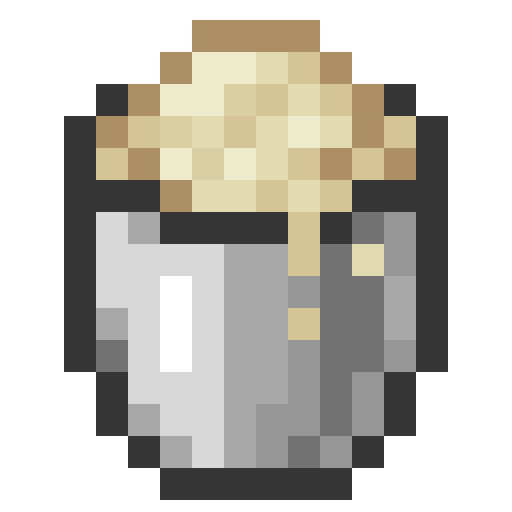
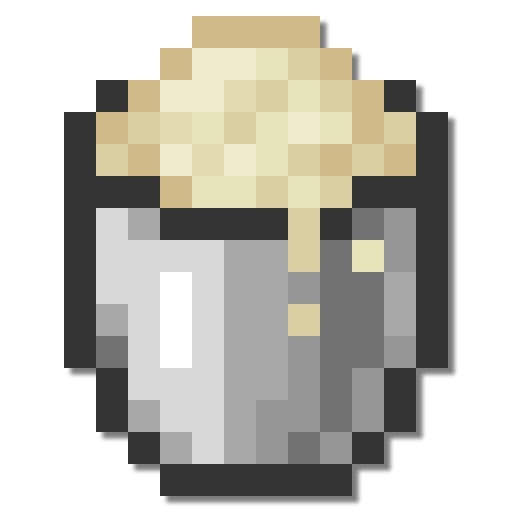
1.1.0
Updated to 1.18.2
Added Red Quicksand, Red Quicksand Bucket, and Red Quicksand Cauldron
Red Quicksand spawns in any Badlands biome (tagged with `minecraft:is_badlands`)
Reworked a lot of small things relating to when Quicksand deals damage and spawns particles
Redid texture of Quicksand, and slightly altered the texture of Quicksand Bucket to match
A lot of other small things

diff --git a/src/main/java/com/shnupbups/quicksand/block/QuicksandBlock.java b/src/main/java/com/shnupbups/quicksand/block/QuicksandBlock.java
@@ -2,6 +2,7 @@ package com.shnupbups.quicksand.block;
 
 import java.util.Optional;
 import java.util.Random;
+import java.util.function.Supplier;
 
 import net.minecraft.block.AbstractBlock;
 import net.minecraft.block.Block;
@@ -16,6 +17,7 @@ import net.minecraft.entity.EquipmentSlot;
 import net.minecraft.entity.FallingBlockEntity;
 import net.minecraft.entity.LivingEntity;
 import net.minecraft.entity.ai.pathing.NavigationType;
+import net.minecraft.item.Item;
 import net.minecraft.item.ItemStack;
 import net.minecraft.item.Items;
 import net.minecraft.particle.BlockStateParticleEffect;
@@ -30,16 +32,21 @@ import net.minecraft.util.shape.VoxelShapes;
 import net.minecraft.world.BlockView;
 import net.minecraft.world.World;
 import net.minecraft.world.WorldAccess;
+import net.minecraft.world.WorldEvents;
 
 import net.fabricmc.api.EnvType;
 import net.fabricmc.api.Environment;
 
 import com.shnupbups.quicksand.Quicksand;
 import com.shnupbups.quicksand.registry.ModBlocks;
+import com.shnupbups.quicksand.registry.ModTags;
 
 public class QuicksandBlock extends SandBlock implements FluidDrainable {
-	public QuicksandBlock(AbstractBlock.Settings settings) {
-		super(14076051, settings);
+	public final Supplier<Item> bucket;
+
+	public QuicksandBlock(AbstractBlock.Settings settings, int color, Supplier<Item> bucket) {
+		super(color, settings);
+		this.bucket = bucket;
 	}
 
 	@Override
@@ -55,19 +62,22 @@ public class QuicksandBlock extends SandBlock implements FluidDrainable {
 
 	@Override
 	public void onEntityCollision(BlockState state, World world, BlockPos pos, Entity entity) {
-		if (entity.getBlockStateAtPos().isOf(ModBlocks.QUICKSAND)) {
+		if (entity.getBlockStateAtPos().isIn(ModTags.QUICKSAND)) {
 			entity.slowMovement(state, new Vec3d(0.6D, 0.4D, 0.6D));
 		}
 
-		if (world.getRandom().nextBoolean()) {
-			if (entity instanceof LivingEntity living && world.getBlockState(new BlockPos(entity.getBlockX(), entity.getEyeY() - 0.1111111119389534D, entity.getBlockZ())).isOf(ModBlocks.QUICKSAND)) {
+		if (!entity.isSpectator() && (hasEntityMoved(entity) || world.getRandom().nextFloat() < 0.2)) {
+			if (entity instanceof LivingEntity living && world.getBlockState(new BlockPos(entity.getBlockX(), entity.getEyeY() - 0.1111111119389534D, entity.getBlockZ())).isIn(ModTags.QUICKSAND)) {
 				living.damage(Quicksand.QUICKSAND_DAMAGE, 1f);
 			}
 
-			if (!entity.isSpectator() && (entity.lastRenderX != entity.getX() || entity.lastRenderZ != entity.getZ())) {
-				spawnParticles(world, state, new Vec3d(entity.getX(), pos.getY(), entity.getZ()));
-			}
+			if(world.getRandom().nextBoolean()) spawnParticles(world, state, new Vec3d(entity.getX(), pos.getY(), entity.getZ()));
 		}
+	}
+
+	public boolean hasEntityMoved(Entity entity) {
+		return entity.lastRenderX != entity.getX() || entity.lastRenderY != entity.getY() || entity.lastRenderZ != entity.getZ() ||
+				entity.prevYaw != entity.getYaw() || entity.prevPitch != entity.getPitch();
 	}
 
 	@Override
@@ -76,7 +86,7 @@ public class QuicksandBlock extends SandBlock implements FluidDrainable {
 			Entity entity = entityShapeContext.getEntity();
 			if (entity != null) {
 				if (entity instanceof FallingBlockEntity || (canWalkOnQuicksand(entity) && context.isAbove(VoxelShapes.fullCube(), pos, false) && !context.isDescending())) {
-					return super.getCollisionShape(state, world, pos, context);
+					return VoxelShapes.fullCube();
 				}
 			}
 		}
@@ -92,30 +102,33 @@ public class QuicksandBlock extends SandBlock implements FluidDrainable {
 	public static void spawnParticles(World world, BlockState state, Vec3d pos) {
 		if (world.isClient) {
 			Random random = world.getRandom();
-			double d = pos.y + 1.0D;
 
 			for (int i = 0; i < random.nextInt(3); ++i) {
-				world.addParticle(new BlockStateParticleEffect(ParticleTypes.FALLING_DUST, state), pos.x, d, pos.z, (-1.0F + random.nextFloat() * 2.0F) / 12.0F, 0.05000000074505806D, (-1.0F + random.nextFloat() * 2.0F) / 12.0F);
+				world.addParticle(new BlockStateParticleEffect(ParticleTypes.FALLING_DUST, state), pos.x+(random.nextFloat(0.2f)-0.1f), pos.y+(random.nextFloat(0.2f)-0.1f), pos.z+(random.nextFloat(0.2f)-0.1f), (-1.0F + random.nextFloat() * 2.0F) / 12.0F, 0.05000000074505806D, (-1.0F + random.nextFloat() * 2.0F) / 12.0F);
 			}
 		}
 	}
 
 	public static boolean canWalkOnQuicksand(Entity entity) {
-		if (entity.getType().isIn(Quicksand.QUICKSAND_WALKABLE_MOBS)) {
+		if (entity.getType().isIn(ModTags.QUICKSAND_WALKABLE_MOBS)) {
 			return true;
 		} else {
 			return entity instanceof LivingEntity livingEntity && livingEntity.getEquippedStack(EquipmentSlot.FEET).isOf(Items.LEATHER_BOOTS);
 		}
 	}
 
+	public Item getBucket() {
+		return bucket.get();
+	}
+
 	@Override
 	public ItemStack tryDrainFluid(WorldAccess world, BlockPos pos, BlockState state) {
-		world.setBlockState(pos, Blocks.AIR.getDefaultState(), 11);
+		world.setBlockState(pos, Blocks.AIR.getDefaultState(), Block.REDRAW_ON_MAIN_THREAD | Block.NOTIFY_ALL);
 		if (!world.isClient()) {
-			world.syncWorldEvent(2001, pos, Block.getRawIdFromState(state));
+			world.syncWorldEvent(WorldEvents.BLOCK_BROKEN, pos, Block.getRawIdFromState(state));
 		}
 
-		return new ItemStack(ModBlocks.QUICKSAND_BUCKET);
+		return getBucket().getDefaultStack();
 	}
 
 	@Override

diff --git a/src/main/java/com/shnupbups/quicksand/registry/ModFeatures.java b/src/main/java/com/shnupbups/quicksand/registry/ModFeatures.java
@@ -1,21 +1,19 @@
 package com.shnupbups.quicksand.registry;
 
-import net.minecraft.block.Blocks;
+import net.minecraft.tag.BiomeTags;
 import net.minecraft.util.Identifier;
-import net.minecraft.util.registry.BuiltinRegistries;
-import net.minecraft.util.registry.Registry;
-import net.minecraft.util.registry.RegistryKey;
+import net.minecraft.util.registry.RegistryEntry;
 import net.minecraft.world.biome.BiomeKeys;
 import net.minecraft.world.gen.GenerationStep;
-import net.minecraft.world.gen.decorator.BiomePlacementModifier;
-import net.minecraft.world.gen.decorator.RarityFilterPlacementModifier;
-import net.minecraft.world.gen.decorator.SquarePlacementModifier;
 import net.minecraft.world.gen.feature.ConfiguredFeature;
 import net.minecraft.world.gen.feature.ConfiguredFeatures;
 import net.minecraft.world.gen.feature.Feature;
 import net.minecraft.world.gen.feature.LakeFeature;
 import net.minecraft.world.gen.feature.PlacedFeature;
 import net.minecraft.world.gen.feature.PlacedFeatures;
+import net.minecraft.world.gen.placementmodifier.BiomePlacementModifier;
+import net.minecraft.world.gen.placementmodifier.RarityFilterPlacementModifier;
+import net.minecraft.world.gen.placementmodifier.SquarePlacementModifier;
 import net.minecraft.world.gen.stateprovider.BlockStateProvider;
 
 import net.fabricmc.fabric.api.biome.v1.BiomeModifications;
@@ -25,16 +23,23 @@ import com.shnupbups.quicksand.Quicksand;
 
 public class ModFeatures extends ConfiguredFeatures {
 	public static final Identifier QUICKSAND_LAKE_ID = Quicksand.id("quicksand_lake");
-	public static final ConfiguredFeature<?, ?> QUICKSAND_LAKE_CONFIGURED_FEATURE = Feature.LAKE.configure(new LakeFeature.Config(BlockStateProvider.of(ModBlocks.QUICKSAND), BlockStateProvider.of(Blocks.SAND)));
-	public static final PlacedFeature QUICKSAND_LAKE_PLACED_FEATURE = QUICKSAND_LAKE_CONFIGURED_FEATURE.withPlacement(RarityFilterPlacementModifier.of(30), SquarePlacementModifier.of(), PlacedFeatures.WORLD_SURFACE_WG_HEIGHTMAP, BiomePlacementModifier.of());
+	public static final Identifier RED_QUICKSAND_LAKE_ID = Quicksand.id("red_quicksand_lake");
+
+	public static final RegistryEntry<ConfiguredFeature<LakeFeature.Config, ?>> QUICKSAND_LAKE_CONFIGURED_FEATURE = ConfiguredFeatures.register(QUICKSAND_LAKE_ID.toString(), Feature.LAKE, new LakeFeature.Config(BlockStateProvider.of(ModBlocks.QUICKSAND.getDefaultState()), BlockStateProvider.of(ModBlocks.QUICKSAND.getDefaultState())));
+	public static final RegistryEntry<PlacedFeature> QUICKSAND_LAKE_PLACED_FEATURE = PlacedFeatures.register(QUICKSAND_LAKE_ID.toString(), QUICKSAND_LAKE_CONFIGURED_FEATURE, RarityFilterPlacementModifier.of(30), SquarePlacementModifier.of(), PlacedFeatures.WORLD_SURFACE_WG_HEIGHTMAP, BiomePlacementModifier.of());
+
+	public static final RegistryEntry<ConfiguredFeature<LakeFeature.Config, ?>> RED_QUICKSAND_LAKE_CONFIGURED_FEATURE = ConfiguredFeatures.register(RED_QUICKSAND_LAKE_ID.toString(), Feature.LAKE, new LakeFeature.Config(BlockStateProvider.of(ModBlocks.RED_QUICKSAND.getDefaultState()), BlockStateProvider.of(ModBlocks.RED_QUICKSAND.getDefaultState())));
+	public static final RegistryEntry<PlacedFeature> RED_QUICKSAND_LAKE_PLACED_FEATURE = PlacedFeatures.register(RED_QUICKSAND_LAKE_ID.toString(), RED_QUICKSAND_LAKE_CONFIGURED_FEATURE, RarityFilterPlacementModifier.of(50), SquarePlacementModifier.of(), PlacedFeatures.WORLD_SURFACE_WG_HEIGHTMAP, BiomePlacementModifier.of());
 
 	public static void init() {
-		BuiltinRegistries.add(BuiltinRegistries.CONFIGURED_FEATURE, QUICKSAND_LAKE_ID, QUICKSAND_LAKE_CONFIGURED_FEATURE);
-		BuiltinRegistries.add(BuiltinRegistries.PLACED_FEATURE, QUICKSAND_LAKE_ID, QUICKSAND_LAKE_PLACED_FEATURE);
-
 		BiomeModifications.create(QUICKSAND_LAKE_ID).add(ModificationPhase.ADDITIONS, (biomeSelectionContext) ->
 				biomeSelectionContext.getBiomeKey().equals(BiomeKeys.DESERT), (biomeSelectionContext, biomeModificationContext) ->
-				biomeModificationContext.getGenerationSettings().addBuiltInFeature(GenerationStep.Feature.LAKES, QUICKSAND_LAKE_PLACED_FEATURE)
+				biomeModificationContext.getGenerationSettings().addBuiltInFeature(GenerationStep.Feature.LAKES, QUICKSAND_LAKE_PLACED_FEATURE.value())
+		);
+
+		BiomeModifications.create(RED_QUICKSAND_LAKE_ID).add(ModificationPhase.ADDITIONS, (biomeSelectionContext) ->
+				biomeSelectionContext.getBiomeRegistryEntry().isIn(BiomeTags.IS_BADLANDS), (biomeSelectionContext, biomeModificationContext) ->
+				biomeModificationContext.getGenerationSettings().addBuiltInFeature(GenerationStep.Feature.LAKES, RED_QUICKSAND_LAKE_PLACED_FEATURE.value())
 		);
 	}
 }

diff --git a/src/main/java/com/shnupbups/quicksand/registry/ModBlocks.java b/src/main/java/com/shnupbups/quicksand/registry/ModBlocks.java
@@ -17,14 +17,34 @@ import com.shnupbups.quicksand.Quicksand;
 import com.shnupbups.quicksand.block.QuicksandBlock;
 
 public class ModBlocks {
-	public static final Block QUICKSAND = new QuicksandBlock(FabricBlockSettings.copyOf(Blocks.SAND));
-	public static final BlockItem QUICKSAND_BUCKET = new PowderSnowBucketItem(QUICKSAND, SoundEvents.BLOCK_SAND_PLACE, new FabricItemSettings().maxCount(1).group(ItemGroup.MISC));
-	public static final Block QUICKSAND_CAULDRON = new FullCauldronBlock(FabricBlockSettings.copyOf(Blocks.CAULDRON), ModCauldronBehavior.QUICKSAND_CAULDRON_BEHAVIOR);
+	public static Block QUICKSAND;
+	public static BlockItem QUICKSAND_BUCKET;
+	public static Block QUICKSAND_CAULDRON;
+	public static Block RED_QUICKSAND;
+	public static BlockItem RED_QUICKSAND_BUCKET;
+	public static Block RED_QUICKSAND_CAULDRON;
 
 	public static void init() {
+		QUICKSAND = new QuicksandBlock(FabricBlockSettings.copyOf(Blocks.SAND), 14406560, () -> QUICKSAND_BUCKET);
+		QUICKSAND_BUCKET = new PowderSnowBucketItem(QUICKSAND, SoundEvents.BLOCK_SAND_PLACE, new FabricItemSettings().maxCount(1).group(ItemGroup.MISC));
+		QUICKSAND_CAULDRON =  new FullCauldronBlock(FabricBlockSettings.copyOf(Blocks.CAULDRON), ModCauldronBehavior.QUICKSAND_CAULDRON_BEHAVIOR);
+
+		RED_QUICKSAND = new QuicksandBlock(FabricBlockSettings.copyOf(Blocks.RED_SAND), 11098145, () -> RED_QUICKSAND_BUCKET);
+		RED_QUICKSAND_BUCKET = new PowderSnowBucketItem(RED_QUICKSAND, SoundEvents.BLOCK_SAND_PLACE, new FabricItemSettings().maxCount(1).group(ItemGroup.MISC));
+		RED_QUICKSAND_CAULDRON =  new FullCauldronBlock(FabricBlockSettings.copyOf(Blocks.CAULDRON), ModCauldronBehavior.RED_QUICKSAND_CAULDRON_BEHAVIOR);
+
+		register();
+	}
+
+	private static void register() {
 		Registry.register(Registry.BLOCK, Quicksand.id("quicksand"), QUICKSAND);
 		Registry.register(Registry.ITEM, Quicksand.id("quicksand_bucket"), QUICKSAND_BUCKET);
 		QUICKSAND_BUCKET.appendBlocks(Item.BLOCK_ITEMS, QUICKSAND_BUCKET);
 		Registry.register(Registry.BLOCK, Quicksand.id("quicksand_cauldron"), QUICKSAND_CAULDRON);
+
+		Registry.register(Registry.BLOCK, Quicksand.id("red_quicksand"), RED_QUICKSAND);
+		Registry.register(Registry.ITEM, Quicksand.id("red_quicksand_bucket"), RED_QUICKSAND_BUCKET);
+		RED_QUICKSAND_BUCKET.appendBlocks(Item.BLOCK_ITEMS, RED_QUICKSAND_BUCKET);
+		Registry.register(Registry.BLOCK, Quicksand.id("red_quicksand_cauldron"), RED_QUICKSAND_CAULDRON);
 	}
 }

diff --git a/src/main/java/com/shnupbups/quicksand/mixin/LivingEntityMixin.java b/src/main/java/com/shnupbups/quicksand/mixin/LivingEntityMixin.java
@@ -12,8 +12,10 @@ import org.spongepowered.asm.mixin.injection.At;
 import org.spongepowered.asm.mixin.injection.Inject;
 import org.spongepowered.asm.mixin.injection.callback.CallbackInfoReturnable;
 
+import com.shnupbups.quicksand.Quicksand;
 import com.shnupbups.quicksand.block.QuicksandBlock;
 import com.shnupbups.quicksand.registry.ModBlocks;
+import com.shnupbups.quicksand.registry.ModTags;
 
 @Mixin(LivingEntity.class)
 public abstract class LivingEntityMixin extends Entity {
@@ -25,10 +27,10 @@ public abstract class LivingEntityMixin extends Entity {
 	}
 
 	@Inject(method = "applyMovementInput(Lnet/minecraft/util/math/Vec3d;F)Lnet/minecraft/util/math/Vec3d;", at = @At("RETURN"), cancellable = true)
-	public void inject_applyMovementInput(Vec3d vec3d, float f, CallbackInfoReturnable<Vec3d> cir) {
-		Vec3d vec3d2 = this.getVelocity();
-		if ((this.horizontalCollision || this.jumping) && (this.getBlockStateAtPos().isOf(ModBlocks.QUICKSAND))) {
-			cir.setReturnValue(new Vec3d(vec3d2.x, QuicksandBlock.canWalkOnQuicksand(this) ? 0.4D : 0.1D, vec3d2.z));
+	public void inject_applyMovementInput(Vec3d movementInput, float f, CallbackInfoReturnable<Vec3d> cir) {
+		Vec3d velocity = this.getVelocity();
+		if ((this.horizontalCollision || this.jumping) && (this.getBlockStateAtPos().isIn(ModTags.QUICKSAND))) {
+			cir.setReturnValue(new Vec3d(velocity.x, QuicksandBlock.canWalkOnQuicksand(this) ? 0.4D : 0.1D, velocity.z));
 		}
 	}
 }

diff --git a/src/main/java/com/shnupbups/quicksand/Quicksand.java b/src/main/java/com/shnupbups/quicksand/Quicksand.java
@@ -1,34 +1,30 @@
 package com.shnupbups.quicksand;
 
-import net.minecraft.entity.EntityType;
 import net.minecraft.entity.damage.DamageSource;
-import net.minecraft.tag.Tag;
 import net.minecraft.util.Identifier;
 
 import net.fabricmc.api.ModInitializer;
-import net.fabricmc.fabric.api.tag.TagFactory;
 
 import com.shnupbups.quicksand.registry.ModBlocks;
 import com.shnupbups.quicksand.registry.ModCauldronBehavior;
 import com.shnupbups.quicksand.registry.ModFeatures;
+import com.shnupbups.quicksand.registry.ModTags;
 
 public class Quicksand implements ModInitializer {
 	public static final String MOD_ID = "quicksand";
 
-	public static final Tag.Identified<EntityType<?>> QUICKSAND_WALKABLE_MOBS = TagFactory.ENTITY_TYPE.create(id("quicksand_walkable_mobs"));
-
 	public static final DamageSource QUICKSAND_DAMAGE = new DamageSource("quicksand") {
-		@Override
-		public boolean bypassesArmor() {
-			return true;
+		public DamageSource setup() {
+			return this.setBypassesArmor();
 		}
-	};
+	}.setup();
 
 	@Override
 	public void onInitialize() {
 		ModBlocks.init();
 		ModCauldronBehavior.init();
 		ModFeatures.init();
+		ModTags.init();
 	}
 
 	public static Identifier id(String id) {

diff --git a/src/main/java/com/shnupbups/quicksand/mixin/EntityMixin.java b/src/main/java/com/shnupbups/quicksand/mixin/EntityMixin.java
@@ -8,12 +8,14 @@ import org.spongepowered.asm.mixin.Mixin;
 import org.spongepowered.asm.mixin.injection.At;
 import org.spongepowered.asm.mixin.injection.Redirect;
 
+import com.shnupbups.quicksand.Quicksand;
 import com.shnupbups.quicksand.registry.ModBlocks;
+import com.shnupbups.quicksand.registry.ModTags;
 
 @Mixin(Entity.class)
 public class EntityMixin {
-	@Redirect(method = "move(Lnet/minecraft/entity/MovementType;Lnet/minecraft/util/math/Vec3d;)V", at = @At(value = "INVOKE", target = "Lnet/minecraft/block/BlockState;isOf(Lnet/minecraft/block/Block;)Z"))
+	@Redirect(method = "move(Lnet/minecraft/entity/MovementType;Lnet/minecraft/util/math/Vec3d;)V", at = @At(value = "INVOKE", target = "Lnet/minecraft/block/BlockState;isOf(Lnet/minecraft/block/Block;)Z", ordinal = 0))
 	public boolean move_redirect(BlockState state, Block block) {
-		return state.isOf(block) || state.isOf(ModBlocks.QUICKSAND);
+		return state.isOf(block) || state.isIn(ModTags.QUICKSAND);
 	}
 }

diff --git a/src/main/java/com/shnupbups/quicksand/registry/ModCauldronBehavior.java b/src/main/java/com/shnupbups/quicksand/registry/ModCauldronBehavior.java
@@ -11,10 +11,13 @@ import com.shnupbups.cauldronlib.CauldronLib;
 
 public interface ModCauldronBehavior extends CauldronBehavior {
 	Map<Item, CauldronBehavior> QUICKSAND_CAULDRON_BEHAVIOR = CauldronBehavior.createMap();
+	Map<Item, CauldronBehavior> RED_QUICKSAND_CAULDRON_BEHAVIOR = CauldronBehavior.createMap();
 
 	static void init() {
 		CauldronLib.registerFillFromBucketBehavior(ModBlocks.QUICKSAND_BUCKET, ModBlocks.QUICKSAND_CAULDRON, SoundEvents.BLOCK_SAND_PLACE);
+		CauldronLib.registerFillFromBucketBehavior(ModBlocks.RED_QUICKSAND_BUCKET, ModBlocks.RED_QUICKSAND_CAULDRON, SoundEvents.BLOCK_SAND_PLACE);
 
 		QUICKSAND_CAULDRON_BEHAVIOR.put(Items.BUCKET, CauldronLib.createEmptyBehavior(ModBlocks.QUICKSAND_BUCKET, SoundEvents.BLOCK_SAND_BREAK));
+		RED_QUICKSAND_CAULDRON_BEHAVIOR.put(Items.BUCKET, CauldronLib.createEmptyBehavior(ModBlocks.RED_QUICKSAND_BUCKET, SoundEvents.BLOCK_SAND_BREAK));
 	}
 }

diff --git a/src/main/java/com/shnupbups/quicksand/registry/ModTags.java b/src/main/java/com/shnupbups/quicksand/registry/ModTags.java
@@ -1,0 +1,18 @@
+package com.shnupbups.quicksand.registry;
+
+import net.minecraft.block.Block;
+import net.minecraft.entity.EntityType;
+import net.minecraft.tag.TagKey;
+import net.minecraft.util.registry.Registry;
+
+import com.shnupbups.quicksand.Quicksand;
+
+public class ModTags {
+
+	public static final TagKey<EntityType<?>> QUICKSAND_WALKABLE_MOBS = TagKey.of(Registry.ENTITY_TYPE_KEY, Quicksand.id("quicksand_walkable_mobs"));
+	public static final TagKey<Block> QUICKSAND = TagKey.of(Registry.BLOCK_KEY, Quicksand.id("quicksand"));
+
+	public static void init() {
+		// NO-OP
+	}
+}
